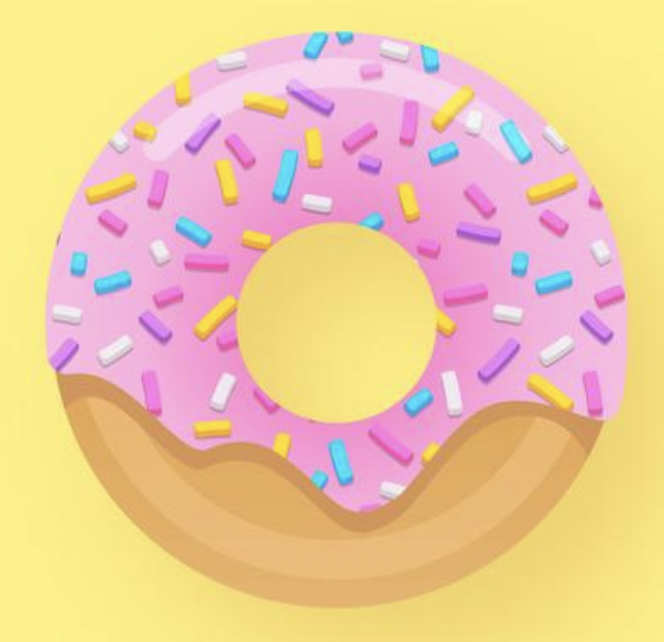
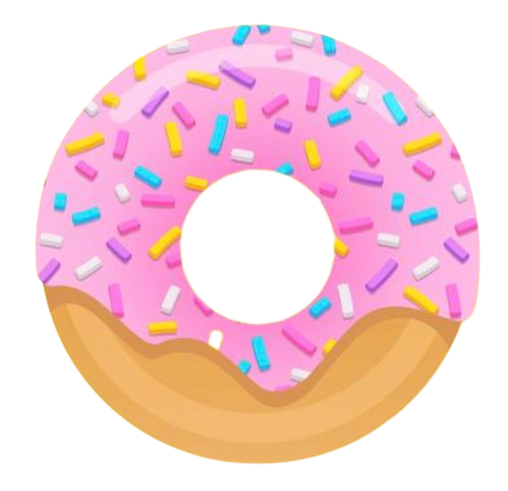
lesson 23-02-2023

diff --git a/07-Layout/03-flexbox-sweety/index.html b/07-Layout/03-flexbox-sweety/index.html
@@ -1,0 +1,103 @@
+<!DOCTYPE html>
+<html lang="en">
+  <head>
+    <meta charset="UTF-8" />
+    <meta http-equiv="X-UA-Compatible" content="IE=edge" />
+    <meta name="viewport" content="width=device-width, initial-scale=1.0" />
+    <link
+      rel="stylesheet"
+      href="https://cdnjs.cloudflare.com/ajax/libs/font-awesome/6.3.0/css/all.min.css"
+      integrity="sha512-SzlrxWUlpfuzQ+pcUCosxcglQRNAq/DZjVsC0lE40xsADsfeQoEypE+enwcOiGjk/bSuGGKHEyjSoQ1zVisanQ=="
+      crossorigin="anonymous"
+      referrerpolicy="no-referrer"
+    />
+    <link rel="stylesheet" href="./style.css" />
+    <title>Sweety</title>
+  </head>
+  <body>
+    <nav class="d-flex navbar">
+      <div class="logo">Sweety</div>
+      <ul class="nav-links d-flex">
+        <li><a href="#">Home</a></li>
+        <li><a href="#">About</a></li>
+        <li><a href="#">Services</a></li>
+        <li><a href="#">Products</a></li>
+        <li><a href="#">Blogs</a></li>
+        <li><a href="#">Contact</a></li>
+      </ul>
+
+      <ul class="nav-icons d-flex">
+        <li><i class="fa-solid fa-bars"></i></li>
+        <li><i class="fa-solid fa-magnifying-glass"></i></li>
+        <li><i class="fa-solid fa-cart-shopping"></i></li>
+        <li><i class="fa-solid fa-user"></i></li>
+      </ul>
+    </nav>
+
+    <header class="d-flex">
+      <h1>Tasty and <span>organic</span> treats</h1>
+      <p>
+        Lorem ipsum dolor sit amet consectetur adipisicing elit. Aliquam libero
+        nostrum veniam facere tempore nisi.
+      </p>
+      <span class="btn">shop now</span>
+    </header>
+    <main>
+      <div class="card d-flex">
+        <img src="./images/donut.png" alt="" />
+        <h3>Organic</h3>
+        <p>Aliquam libero nostrum veniam facere tempore nisi.</p>
+        <span class="btn">READ More</span>
+      </div>
+
+      <div class="card d-flex">
+        <img src="./images/donut1.png" alt="" />
+        <h3>Organic</h3>
+        <p>Aliquam libero nostrum veniam facere tempore nisi.</p>
+        <span class="btn">READ More</span>
+      </div>
+
+      <div class="card d-flex">
+        <img src="./images/donut2.png" alt="" />
+        <h3>Organic</h3>
+        <p>Aliquam libero nostrum veniam facere tempore nisi.</p>
+        <span class="btn">READ More</span>
+      </div>
+
+      <div class="card d-flex">
+        <img src="./images/donut3.png" alt="" />
+        <h3>Organic</h3>
+        <p>Aliquam libero nostrum veniam facere tempore nisi.</p>
+        <span class="btn">READ More</span>
+      </div>
+
+      <div class="card d-flex">
+        <img src="./images/donut4.png" alt="" />
+        <h3>Organic</h3>
+        <p>Aliquam libero nostrum veniam facere tempore nisi.</p>
+        <span class="btn">READ More</span>
+      </div>
+
+      <div class="card d-flex">
+        <img src="./images/donut5.png" alt="" />
+        <h3>Organic</h3>
+        <p>Aliquam libero nostrum veniam facere tempore nisi.</p>
+        <span class="btn">READ More</span>
+      </div>
+
+      <div class="card d-flex">
+        <img src="./images/donut6.png" alt="" />
+        <h3>Organic</h3>
+        <p>Aliquam libero nostrum veniam facere tempore nisi.</p>
+        <span class="btn">READ More</span>
+      </div>
+
+      <div class="card d-flex">
+        <img src="./images/donut6.png" alt="" />
+        <h3>Organic</h3>
+        <p>Aliquam libero nostrum veniam facere tempore nisi.</p>
+        <span class="btn">READ More</span>
+      </div>
+    </main>
+  </body>
+</html>

diff --git a/07-Layout/03-flexbox-sweety/style.css b/07-Layout/03-flexbox-sweety/style.css
@@ -1,0 +1,167 @@
+/********  Fonts and root *********/
+@import url("https://fonts.googleapis.com/css2?family=Pacifico&display=swap");
+* {
+  box-sizing: border-box;
+  margin: 0;
+  padding: 0;
+  list-style: none;
+  text-decoration: none;
+}
+body {
+  font-family: Arial, Helvetica, sans-serif;
+}
+
+/******** Utility  *********/
+
+.d-flex {
+  display: flex;
+}
+
+/******** Main styles *********/
+
+.logo {
+  font-family: "Pacifico", cursive;
+  font-size: 25px;
+}
+
+.navbar {
+  justify-content: space-between;
+  padding: 15px;
+  box-shadow: 0 0.5rem 1.5rem rgba(0, 0, 0, 0.1);
+}
+
+.nav-links {
+  gap: 20px;
+  align-items: center;
+  display: none;
+}
+
+.nav-links li a {
+  color: black;
+}
+
+.nav-icons {
+  gap: 10px;
+  align-items: center;
+}
+
+.nav-icons li {
+  cursor: pointer;
+  background-color: rgba(128, 128, 128, 0.625);
+  padding: 10px;
+  border-radius: 5px;
+  transition: all 0.5s ease;
+}
+
+.nav-icons li:hover {
+  color: white;
+  background-color: rgba(232, 7, 153, 0.925);
+}
+
+/********  Hero  *********/
+
+header {
+  background-image: url(./images/sweetBg.jpg);
+  background-position: center bottom;
+  background-repeat: no-repeat;
+
+  height: 40vh;
+  justify-content: center;
+  align-items: center;
+  flex-direction: column;
+  padding: 20px;
+  position: relative;
+}
+
+header h1,
+header p {
+  padding-bottom: 20px;
+  width: 100%;
+  text-align: left;
+}
+
+header .btn {
+  background-color: rgb(226, 19, 116);
+  padding: 10px 30px;
+  border: 1px solid;
+  border-radius: 5px;
+  font-size: 20px;
+  position: absolute;
+  left: 15px;
+  bottom: 20%;
+}
+
+h1 span {
+  color: rgba(232, 7, 153, 0.925);
+}
+
+/********  Products  *********/
+
+main {
+  background-color: #eee;
+  padding-top: 10px;
+}
+
+main .card {
+  width: 90%;
+  background-color: azure;
+  flex-direction: column;
+  align-items: center;
+  padding: 20px;
+  margin: 15px auto;
+  box-shadow: 0 0.5rem 1.5rem rgba(0, 0, 0, 0.1);
+}
+
+main .card h3,
+main .card p {
+  text-align: center;
+  padding: 10px;
+}
+
+main .card img {
+  width: 50%;
+}
+
+main .card span {
+  background-color: rgb(226, 19, 116);
+  padding: 10px 30px;
+  border: 1px solid;
+  border-radius: 5px;
+  font-size: 20px;
+}
+
+/******** Screens  *********/
+
+@media (min-width: 768px) {
+  main {
+    display: flex;
+    flex-wrap: wrap;
+    justify-content: center;
+  }
+  main .card {
+    width: 30%;
+  }
+
+  main .card:nth-child(7),
+  main .card:nth-child(8) {
+    margin-left: 0;
+    margin-right: 30px;
+  }
+  header {
+    background-size: cover;
+    background-position: center;
+  }
+}
+
+@media (min-width: 992px) {
+  .nav-links {
+    display: flex;
+  }
+  .nav-icons li:nth-child(1) {
+    display: none;
+  }
+
+  .nav-links li:hover {
+    border-bottom: 3px solid rgba(232, 7, 153, 0.925);
+  }
+}
